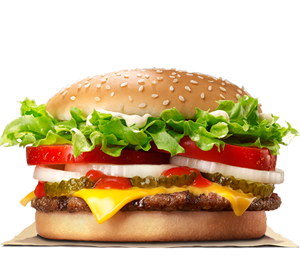
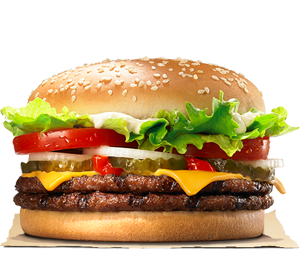
Add files via upload

diff --git a/Lanches/lanches.html b/Lanches/lanches.html
@@ -13,10 +13,10 @@
         </div>
         <ul>
             <a href="#">Pagina Inicial</a>
-            <a href="#">Lanches</a>
+            <a href="#">Hamburguers</a>
             <a href="#">Bebidas</a>
             <a href="#">Sobremesas</a>
-            <a href="#">Acompanhamentos</a>
+            <a href="#">Combos</a>
         </ul>
     </header>
     <section><h1 id="titulo">🍔 Hamburguers 🍔</h1></section>
@@ -42,7 +42,7 @@
             <div>
                 <h1>Inglês - R$ 10,90</h1>
                 <img  src="images/4.png" alt="quarto Hamburguer">
-                <p>1 Hamburguer, Queijo, Alface, Tomate, </p><p>Cebola, Picles.</p>
+                <p>2 Hamburguer, Queijo, Alface, Tomate, </p><p>Cebola, Picles.</p>
                 <center><button>Comprar</button></center>
             </div>
             <div>

diff --git a/Lanches/style/main.css b/Lanches/style/main.css
@@ -1,20 +1,15 @@
-body {
-    background-color: lightgray;
-}
-
-
 header {
+    background-color: white;
     display: flex;
     justify-content: space-between;
     border-bottom: solid 1px;
-    border-color: darkgray;
 }
 #logo {
+    background-color: white;
     width: 190px;
     height: 100px;
 }
 #head {
-    background-color: lightgray;
     margin: 0%;
 }
 nav {
@@ -22,6 +17,9 @@ nav {
     margin-right: 50px;
 }
 
+section {
+    background-color: rgb(229, 234, 235);
+}
 ul {
     margin-top: 25px;
     display: inline-flex;
@@ -43,7 +41,7 @@ section {
     justify-content: center;
 }
 div {
-    background-color: whitesmoke;
+    background-color: white;
     border-radius: 10%;
     margin: 5%;
     text-align: center;
